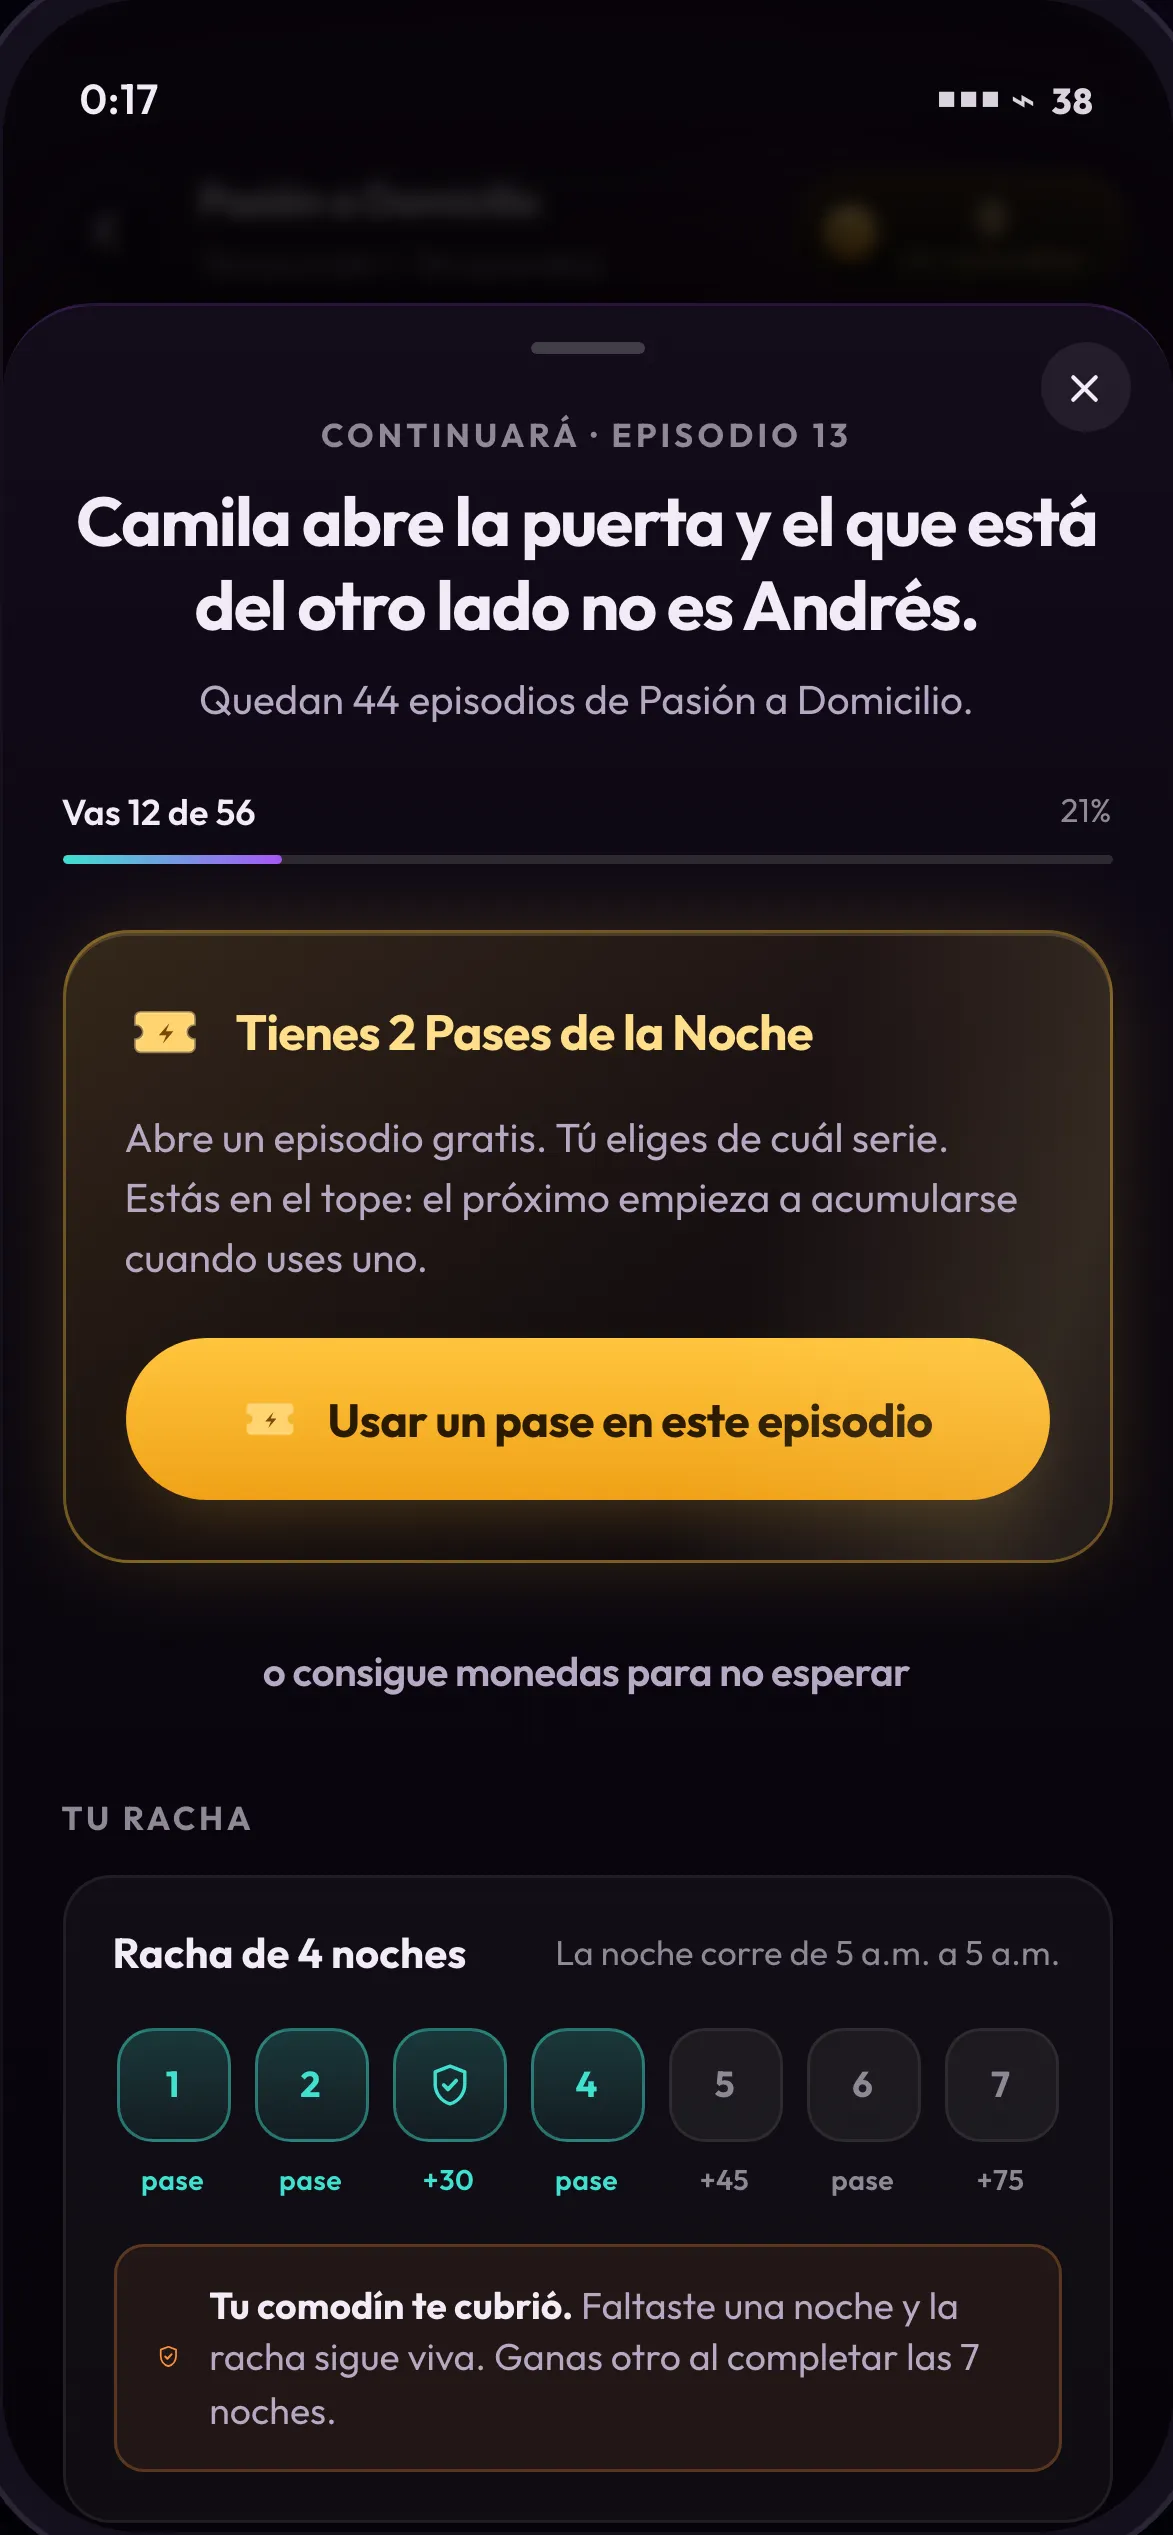
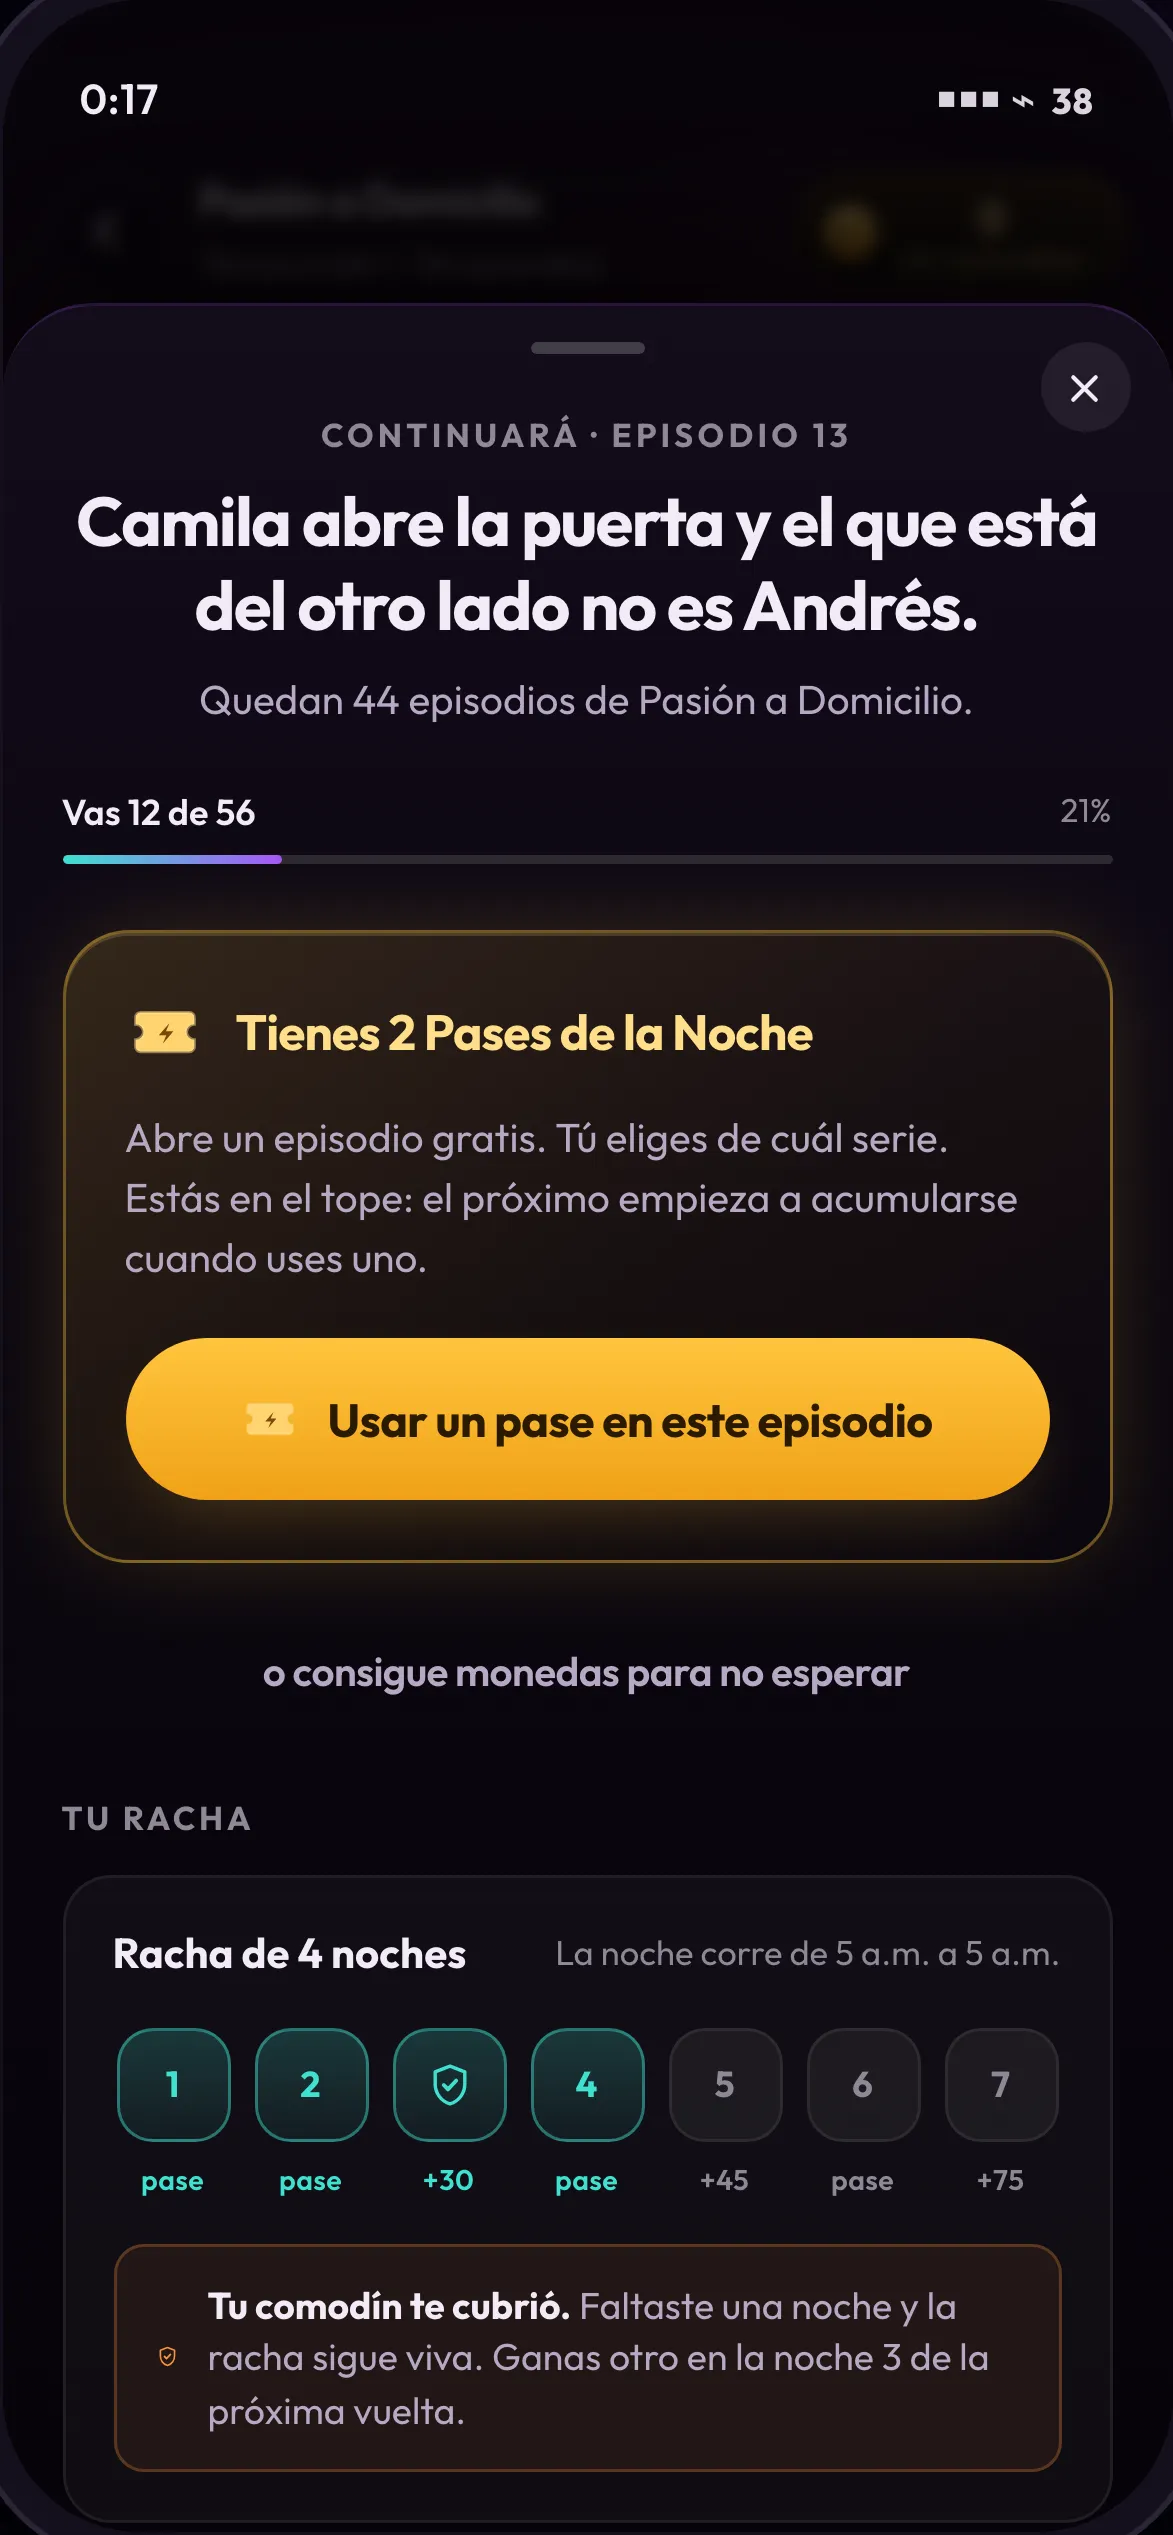
La escalera de la racha da la vuelta, que es lo que R4 ya decía
Dogfooding de vivir varias noches seguidas, que nadie había hecho. La racha se
topaba en 7 y se quedaba ahí, y eso rompía las dos promesas de la mecánica:

El bono de la noche 7 se pagaba TODAS las noches. Ocho noches seguidas daban
525 monedas donde weeklyIssuance dice 150 — 3.5x la emisión que sostiene el
argumento de sostenibilidad del diseño.

Y el comodín, que se gana en la noche 3, no volvía nunca, porque la racha no
volvía a pasar por la 3. El muro promete "ganas otro" y el sistema no lo daba.
Lo comprobé gastándolo: ocho noches después seguía en cero.

R4 ya especificaba el ciclo —"se recarga al completar el ciclo de 7 noches"—.
Como con el pase, el documento tenía razón y el código no la implementaba.

Corregido en el reducer y en credit_night(). De paso R4 queda exacta: el
comodín llega en la noche 3 de cada vuelta, no al completar la 7, y la
diferencia importa porque la protección tiene que llegar cuando todavía quedan
noches que perder. El muro decía "al completar las 7 noches" y ahora dice
cuándo es de verdad.

acreditacion.mjs lo sostiene con tres pasos nuevos. Una primera versión de la
comprobación del comodín pasaba con la noche 3 de la PRIMERA vuelta, así que no
probaba nada: ahora lo gasta ya en la vuelta nueva. Con el tope clavado otra
vez, la racha sale 7→7→7, el saldo 600, y los tres caen.

Verificado también que el paso de invitado a cuenta sí aparece por el camino
natural —desbloquear con racha 3 y cerrar la celebración—; mi primer paseo no
[…]

Changed region(s): [[0.7673, 0.374, 0.9514, 0.6233], [0.1841, 0.9037, 0.8286, 0.9661]]

diff --git a/poc/src/lib/state.ts b/poc/src/lib/state.ts
@@ -301,12 +301,19 @@ function acreditarNoche(s: State): State {
   let shieldJustUsed = false
   let streakJustBroke = false
 
+  // La escalera da la vuelta: después de la noche 7 empieza otra de siete.
+  // Antes se quedaba clavada en 7, y eso rompía las dos promesas de la
+  // mecánica a la vez — el bono de la noche 7 se pagaba TODAS las noches (525
+  // monedas por semana donde `weeklyIssuance` dice 150) y el comodín, que se
+  // gana en la noche 3, no volvía nunca, aunque el muro promete otro.
+  const siguiente = (n: number) => (n >= 7 ? 1 : n + 1)
+
   if (consecutiva || s.lastNight === null) {
-    nights = Math.min(nights + 1, 7)
+    nights = siguiente(nights)
   } else if (shields > 0) {
     shields -= 1
     shieldJustUsed = true
-    nights = Math.min(nights + 1, 7)
+    nights = siguiente(nights)
   } else {
     nights = 1
     streakJustBroke = true

diff --git a/poc/src/components/bits.tsx b/poc/src/components/bits.tsx
@@ -89,7 +89,7 @@ export function StreakStrip({
       {shieldJustUsed ? (
         <div className="shield-row spent">
           <Shield s={17} c="#FB923C" />
-          <p><b>Tu comodín te cubrió.</b> Faltaste una noche y la racha sigue viva. Ganas otro al completar las 7 noches.</p>
+          <p><b>Tu comodín te cubrió.</b> Faltaste una noche y la racha sigue viva. Ganas otro en la noche 3 de la próxima vuelta.</p>
         </div>
       ) : shields > 0 ? (
         <div className="shield-row">

diff --git a/docs/03-diseno/README.md b/docs/03-diseno/README.md
@@ -58,7 +58,11 @@ Con dos o más series empezadas, usar el pase abre una elección. Esta regla par
 54% de las sesiones pasan entre 11 p.m. y 2 a.m. Con corte a medianoche, ver el martes a las 23:40 y el miércoles a las 00:20 cuenta como una sola visita y el martes queda roto. Con corte a las 5 a.m., son dos noches — que es como el usuario las vivió. El corte se calcula en la zona horaria del usuario, nunca en UTC.
 
 **R4 · Un comodín, ganado en la noche 3, que se consume solo.**
-Un usuario de 2.3 días por semana no puede sostener 7 de 7. El comodín absorbe una falta sin que haya que reclamarlo, comprarlo ni enterarse. Se recarga al completar el ciclo de 7 noches.
+Un usuario de 2.3 días por semana no puede sostener 7 de 7. El comodín absorbe una falta sin que haya que reclamarlo, comprarlo ni enterarse. La escalera **da la vuelta**: después de la noche 7 empieza otra de siete, y el comodín se recarga en la **noche 3 de cada vuelta** — uno por ciclo.
+
+> *Acá decía «se recarga al completar el ciclo de 7 noches», y no es exacto: el comodín se gana en la noche 3, no en la 7. La diferencia importa porque la protección tiene que llegar cuando todavía quedan noches que perder, no cuando el ciclo ya terminó. El muro dice lo mismo que esta regla.*
+>
+> *Y la vuelta no estaba implementada.* El reducer y `credit_night()` topaban la racha en 7 y la dejaban ahí. Con la escalera clavada, el bono de la noche 7 se pagaba **todas las noches** —525 monedas por semana donde el modelo de sostenibilidad dice 150— y el comodín no volvía nunca, aunque el muro promete otro. Corregido en las dos, y [`acreditacion.mjs`](../../poc/scripts/acreditacion.mjs) lo sostiene: con el tope clavado otra vez, la racha sale `7→7→7` y el saldo 600, y los tres pasos caen.
 *La regla detrás de la regla: si hay que hacer algo para no perder la racha, la racha ya es una tarea.*
 
 **R5 · La escalera de la racha paga en pases, no en monedas.**
